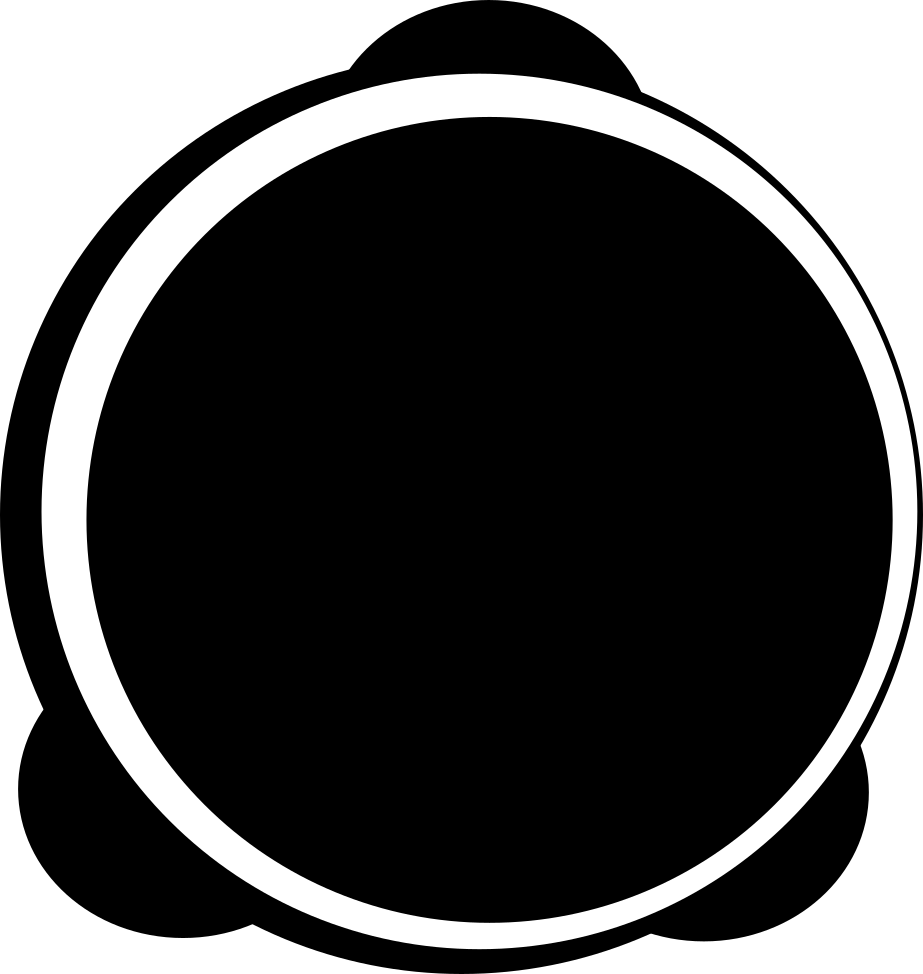
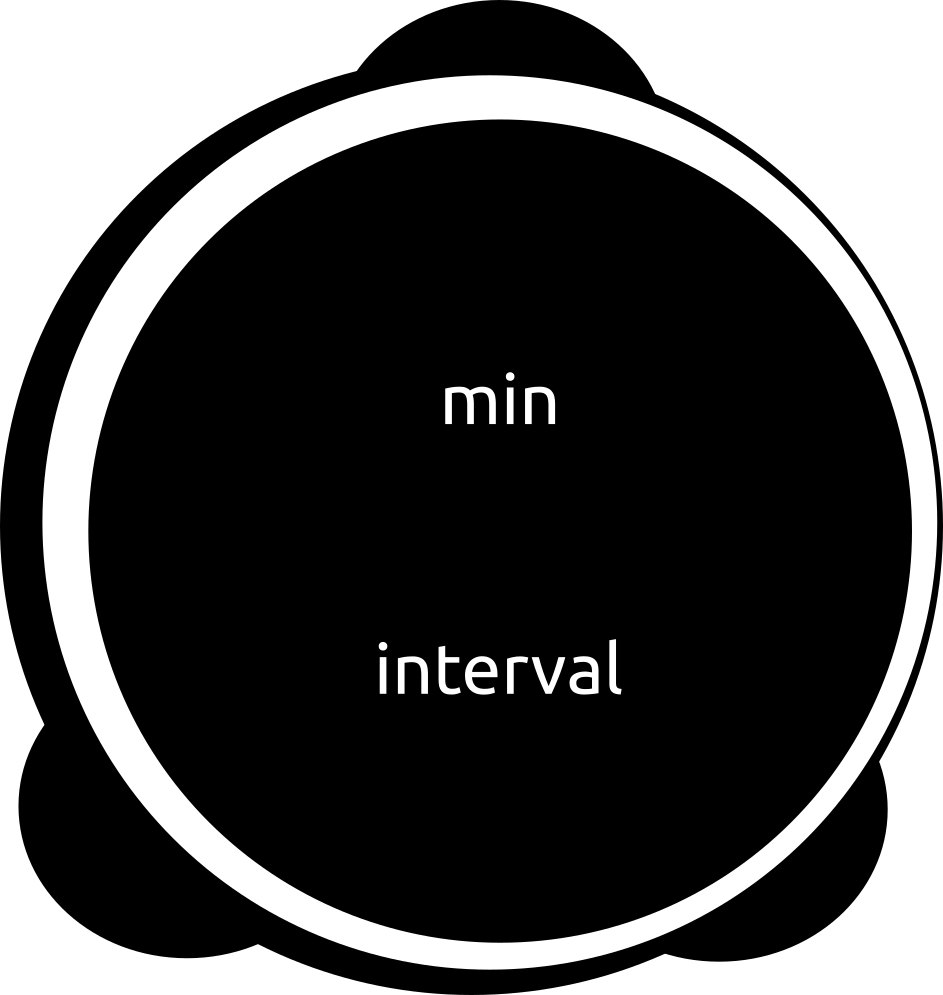
layout

Changed region(s): [[0.3944, 0.6468, 0.6674, 0.7084], [0.455, 0.3696, 0.6067, 0.4312]]

diff --git a/src/pages/Main/index.js b/src/pages/Main/index.js
@@ -1,36 +1,94 @@
 import React from 'react'
-import { View, Text, StyleSheet, Image } from 'react-native'
+import { View, Text, StyleSheet, ImageBackground } from 'react-native'
 
 import clock from '../../assets/clock.png'
 
 export default function Main() {
+  
+  
+  
+  
   return (
-    <View style={styles.container}>
-      <Image source={clock}  style={styles.clock}/>
-      <Text style={styles.texto}>00:00:00</Text>
-    </View>
+      <ImageBackground 
+        source={clock}
+        imageStyle={{resizeMode: 'center'}}
+        style={styles.clock}
+      >
+        <View style={styles.contMin}>
+          <Text style={styles.menos}>-</Text>
+          <Text style={styles.zero}>0</Text>
+          <Text style={styles.mais}>+</Text>
+        </View>
+
+        <View style={styles.container}>
+          <Text style={styles.cronometro}>00:00:00</Text>
+        </View>
+
+        <View style={styles.contInt}>
+          <Text style={styles.texto}>-</Text>
+          <Text style={styles.textos}>0</Text>
+          <Text style={styles.textos}>+</Text>
+        </View>
+      </ImageBackground>
   )
 }
 
 const styles = StyleSheet.create({
-  container: {
+
+  contMin: {
     flex: 1,
-    justifyContent: 'center',
-    alignItems:'center',
-    
+    flexDirection: 'row',
+    position: "absolute",
+    top: 270,
+    right: 163
   },
 
   clock: {
-    width: 370,
-    height: 370,
-    resizeMode: 'contain'
+    flex: 1,
+    justifyContent: 'center',
+    alignItems:'center'
   },
 
-  texto: {
-    fontSize: 60,
+  textos: {
+    color: '#fff',
+    fontSize: 30
+  },
+
+  menos: {
+    color: '#fff',
+    fontSize: 30,
+    paddingRight: 40
+  },
+  
+  zero: {
+    color: '#fff',
+    fontSize: 30,
+    paddingRight: 
+  },
+
+  mais: {
+    color: '#fff',
+    fontSize: 30
+  },
+
+  container: {
+    position: "absolute",
+    top: 352,
+    right: 85,
+  },  
+
+  cronometro: {
+    fontSize: 50,
     color: "#fff",
-    fontWeight: "bold",
-    position: "absolute"
-
+    fontWeight: "bold"
   },
+
+  contInt: {
+    flex: 1,
+    flexDirection: 'row',
+    position: "absolute",
+    bottom: 240,
+    right: 163,
+    // marginBottom: 500
+  }
 })
